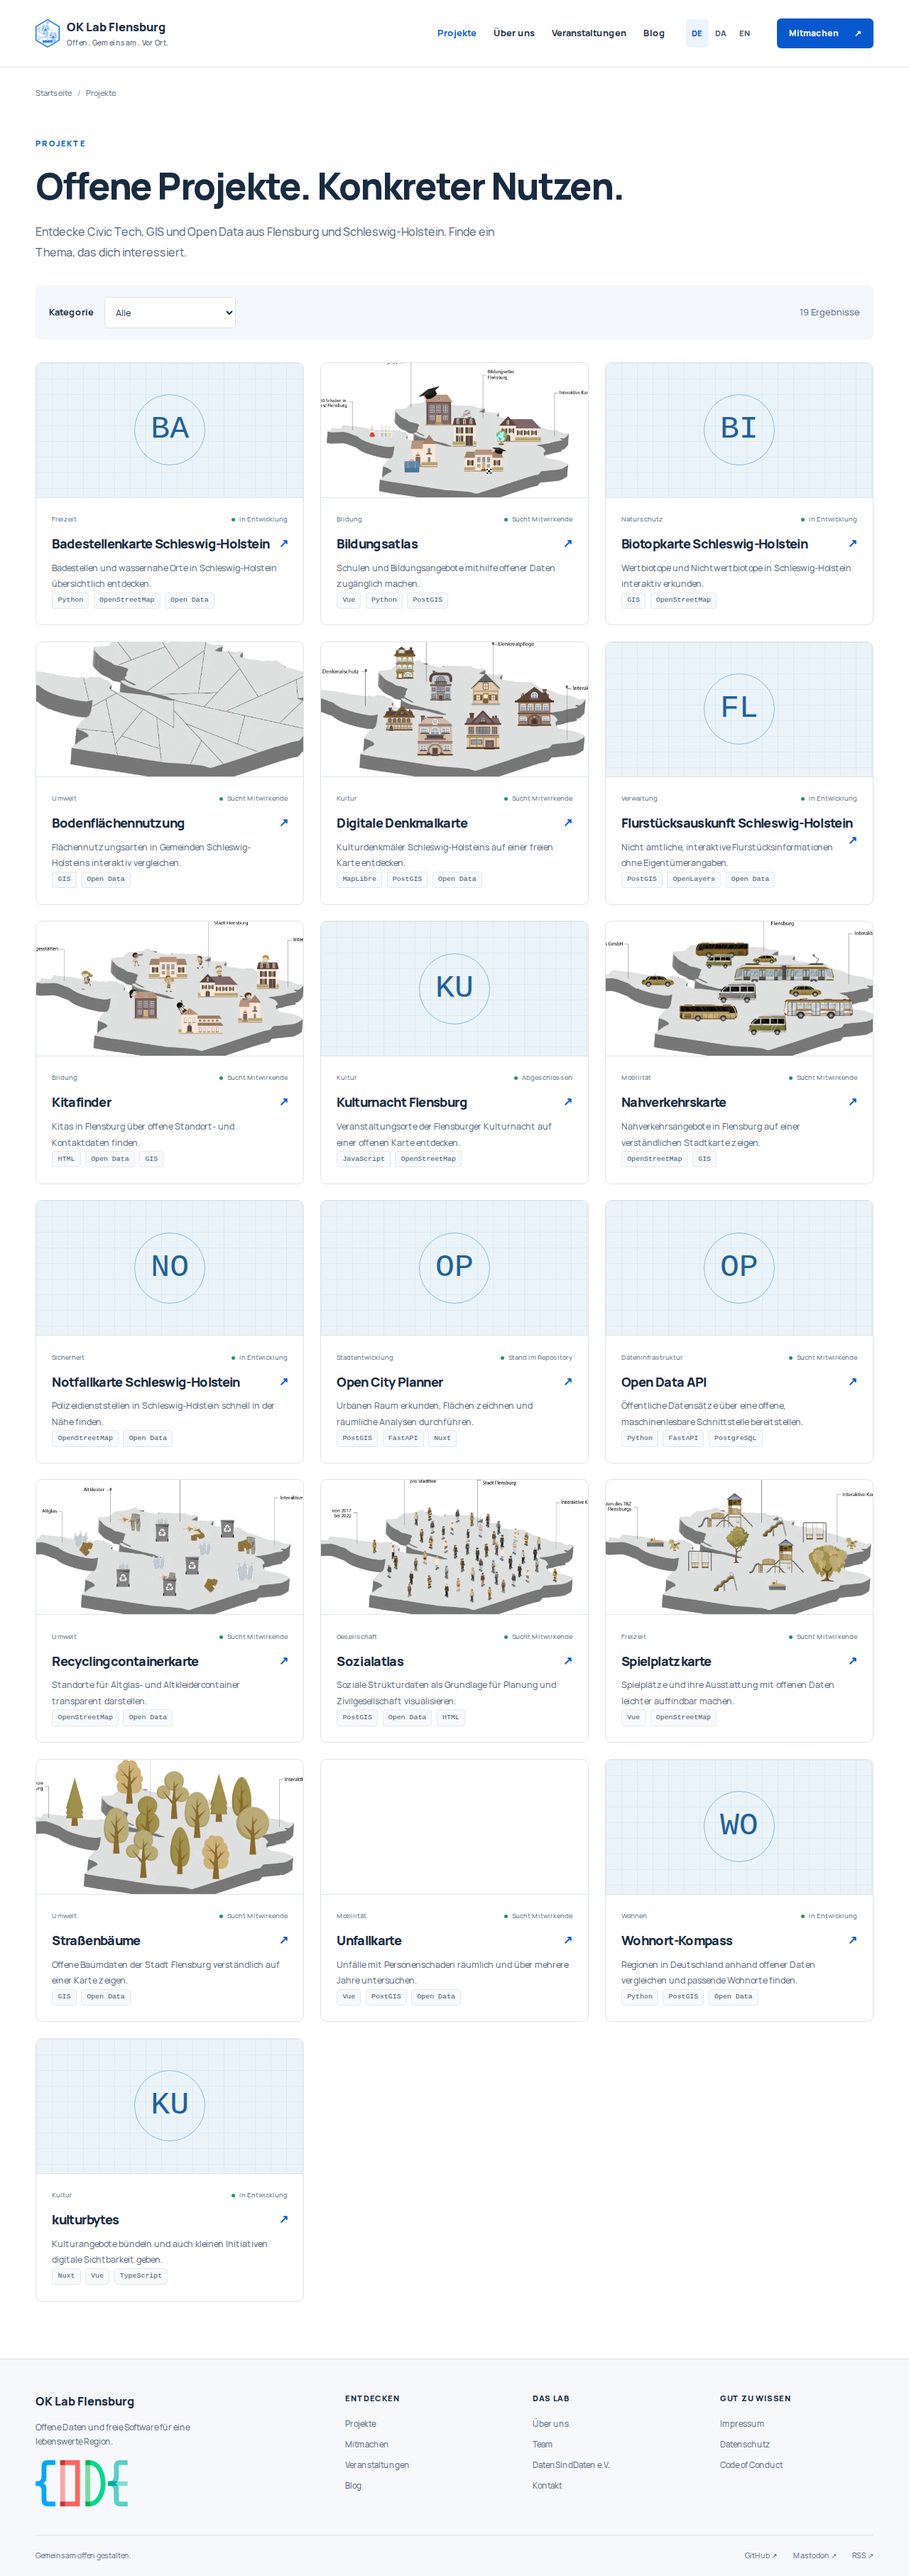
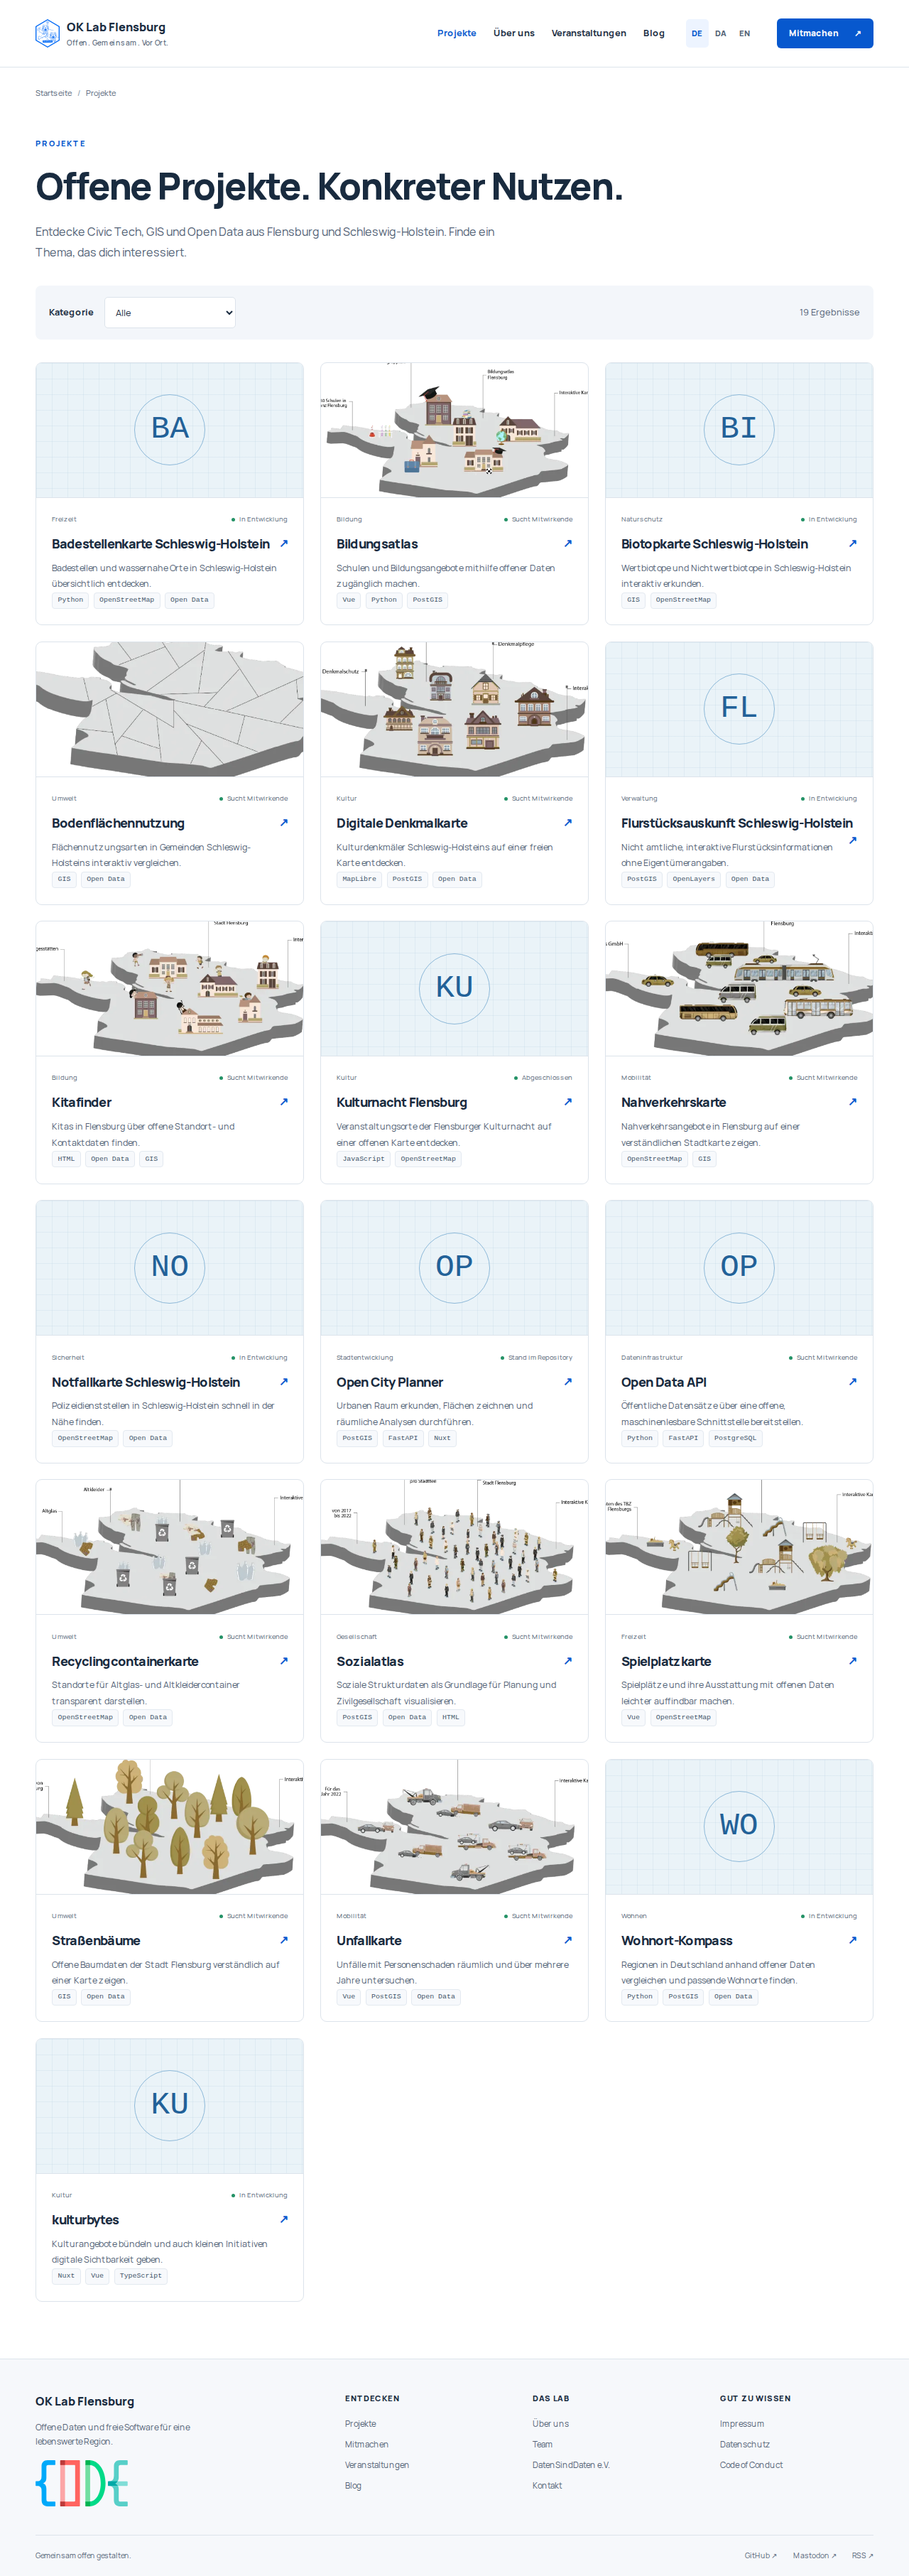
fix: align Vite tooling and verify reproducible installation

Changed region(s): [[0.3438, 0.6856, 0.625, 0.7479]]

diff --git a/tests/e2e/site.spec.ts b/tests/e2e/site.spec.ts
@@ -167,6 +167,13 @@ test('review screenshots', async ({ page }, testInfo) => {
   for (const path of ['/', '/projekte', '/daten-sind-daten']) {
     await page.goto(path)
     await page.evaluate(() => document.fonts.ready)
+    // Full-page captures include images below the browser's lazy-loading range.
+    await page.locator('img').evaluateAll(async (images) => {
+      await Promise.all(images.map((image) => {
+        image.loading = 'eager'
+        return image.decode()
+      }))
+    })
     await page.screenshot({
       path: `docs/screenshots/${testInfo.project.name}-${path === '/' ? 'home' : path.slice(1)}.png`,
       fullPage: true,

diff --git a/docs/migration.md b/docs/migration.md
@@ -45,8 +45,9 @@ Completed on 2026-09-10 against the final working tree:
 - Every application component has a reference. `ProseA` is Nuxt Content's conventional renderer override. No unreferenced public assets or custom CSS class tokens were found.
 - One stylesheet, one Nuxt app shell, one Nuxt i18n configuration, one collection mapping and one project source remain. Nine editorial slugs share one validated page renderer.
 - The 19 project identities, nine editorial pages and two blog articles have matching DE/DA/EN translations. There are no extra JSON/Vue project records or alternative blog engines.
+- Nuxt, Tailwind and Vitest share Vite 8; Vitest 5 removes the conflicting Vite 7 test dependency. TypeScript uses the four Nuxt 4 project references.
 - Dependency use was checked against modules, imports and package scripts; automatic contributor tooling and its dependencies are absent.
-- The requested case-insensitive pattern search found only intentional references: `legacy: false` selects Vue-i18n's Composition API; an E2E request verifies that `/legacy/impressum.html` returns 404; ESLint's `singleline-html-element-content-newline` is a rule name; migration/agent documentation explains the removed code. Package-lock dependency metadata, licence text and SVG `enable-background="new …"` metadata are not website variants.
+- The requested case-insensitive pattern search found only intentional references: `legacy: false` selects Vue-i18n's Composition API; an E2E request verifies that `/legacy/impressum.html` returns 404; ESLint's `singleline-html-element-content-newline` is a rule name; migration/agent documentation explains the removed code. The Danish word `hovedindhold`, licence words such as `Holder`/`sold` and SVG `enable-background="new …"` metadata are not website variants. The lockfile has 133 pattern hits: 118 integrity hashes, two upstream deprecation notices and 13 dependency identifiers/references (`character-entities-legacy`, `fnv1a-64`, `serve-placeholder`, `strip-final-newline`). These are parser/tool dependencies, not retained website code. The two upstream notices concern transitive `@types/parse-path` and `glob`, not unused direct dependencies.
 - `pnpm install --frozen-lockfile`, lint, typecheck and production build passed. Vitest: **22 passed**. Playwright: **20 passed**, with two device-specific skips (desktop omits the mobile test; mobile omits the tablet test). All 14 required route forms were exercised in DE/DA/EN on desktop and mobile, including SSR and absence of hydration errors.
 - axe WCAG A/AA checks passed on home, projects, join, association and a blog article. Keyboard, tablet navigation, locale retention, no-JavaScript content/navigation, XML endpoints, 301s and 404s passed.
 - Desktop and mobile screenshots were visually reviewed and are stored in `docs/screenshots/`.

diff --git a/README.md b/README.md
@@ -18,7 +18,7 @@ Eine kanonische Nuxt-4-Anwendung mit Vue 3, TypeScript, Tailwind CSS 4, `@nuxtjs
 
 ## Entwicklung
 
-Node.js **22.22 oder neuer**, pnpm **10.15.1**. Nuxt Content nutzt den nativen SQLite-Treiber von Node; keine zusätzliche Datenbankinstallation nötig.
+Node.js **22.22 oder neuer**, pnpm **10.15.1**. Vite 8 ist als gemeinsamer Peer für Nuxt, Tailwind und Vitest festgelegt. Nuxt Content nutzt den nativen SQLite-Treiber von Node; keine zusätzliche Datenbankinstallation nötig.
 
 ```sh
 corepack enable
@@ -37,7 +37,7 @@ pnpm exec playwright install chromium
 pnpm test:e2e
 ```
 
-Vitest prüft Schemas, Content-Vollständigkeit, Locale-Parität, Pagination, XML-Escaping und Sommer-/Winterzeit der Treffen. Playwright startet den Production Server auf Port 3100 und prüft alle Pflichtseiten in drei Sprachen, Navigation, mobile Bedienung, Filter, SEO, SSR/Hydration und axe-Barrierefreiheit. Screenshots liegen in `docs/screenshots/`, Testberichte in `playwright-report/`. CI installiert Chromium mit Systemabhängigkeiten und lädt Berichte als Artefakte hoch.
+Vitest 5 prüft Schemas, Content-Vollständigkeit, Locale-Parität, Pagination, XML-Escaping und Sommer-/Winterzeit der Treffen. Playwright startet den Production Server auf Port 3100 und prüft alle Pflichtseiten in drei Sprachen, Navigation, mobile Bedienung, Filter, SEO, SSR/Hydration und axe-Barrierefreiheit. Screenshots liegen in `docs/screenshots/`, Testberichte in `playwright-report/`. CI installiert Chromium mit Systemabhängigkeiten und lädt Berichte als Artefakte hoch.
 
 ## Sprachen und Routing
 
